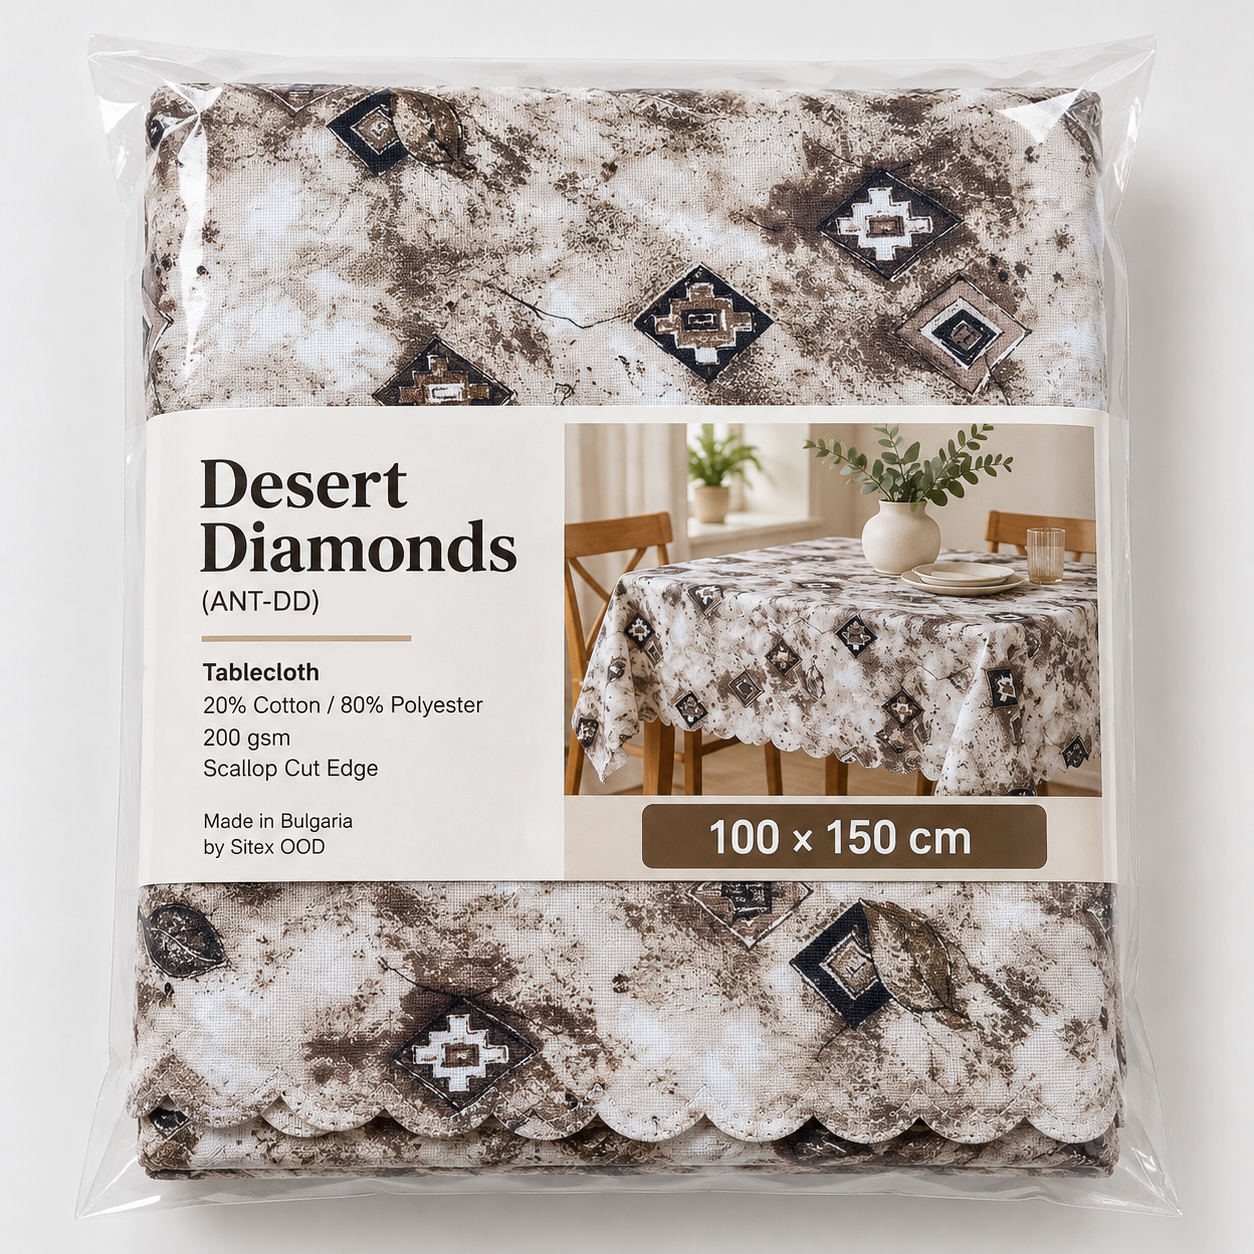
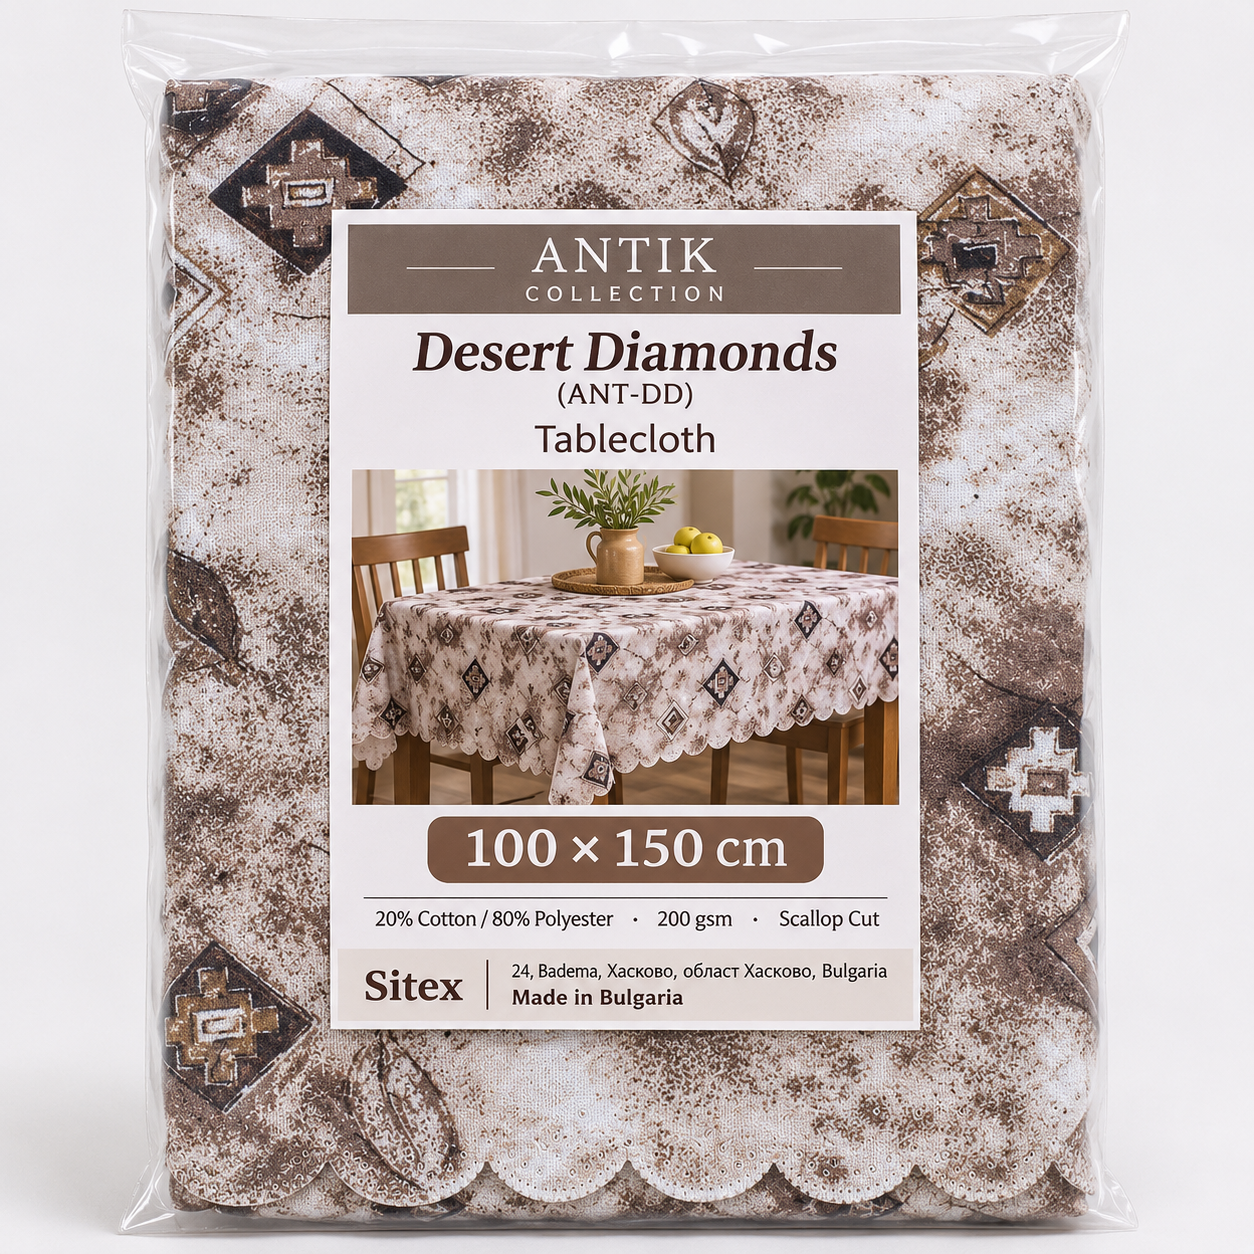
Update Temu compliance images and label recipe

diff --git a/PRODUCT_IMAGE_RECIPE.md b/PRODUCT_IMAGE_RECIPE.md
@@ -1,5 +1,5 @@
 # Product image recipes
-<!-- recipe-version: 15 -->
+<!-- recipe-version: 18 -->
 
 This is the editable master shot list. Sitex PIM reads each `shot-json` block directly. Recipes are captured when a run starts. Generation code lives in `sitex-pim`; this repository contains source photographs, accepted photographs and recipes. The existing `video/` project is outside this workflow.
 
@@ -9,7 +9,7 @@ Upload one full view and one closeup in the product's PIM Media page. Enter the 
 
 Choose Generate all, an image category or individual shots. PIM opens one ordinary Chat conversation per shot in the Eshop project, with Work off, the latest available model and High reasoning. Upload both originals at the start of each shot's conversation. Include the full product facts, photographed dimensions, source-image roles and that shot's recipe in every request. Treat the original photographs as the source of truth for the product; do not use earlier generated images as product references. Request one finished image at a time and wait for its original download before starting the next shot. Review the selected batch when it finishes. Retries, resume and regeneration continue in that shot's own conversation with the user's feedback. Each image links to its own chat; the batch link opens the latest chat. An older run's pending request keeps its saved conversation to prevent duplicate submissions; other shots without a dedicated chat start fresh with both originals. If ChatGPT explicitly reports that earlier originals are unavailable and requests them again, PIM reattaches the saved full view and closeup to the recovery request in that same conversation. One automatic source refresh is allowed per image retry budget; a repeated missing-source error pauses for review.
 
-All shots, including closeups, complete information cards and compliance images with English label text, are generated through ChatGPT. Card wording, typography and layout can vary creatively while retaining the information and visual purpose specified here. Product claims must agree with the supplied PIM facts. For care cards without label instructions, present conservative material-specific advice as general guidance rather than manufacturer-confirmed instructions. Compliance labels contain only supplied product facts; do not invent care symbols, manufacturer addresses, certifications or barcodes, or copy another pattern's label data.
+ChatGPT generates the listing images and can draft compliance layouts. Use actual product photos for Temu compliance submissions, as specified below. Card wording, typography and layout can vary creatively while retaining the information and visual purpose specified here. Product claims must agree with the supplied PIM facts. For care cards without label instructions, present conservative material-specific advice as general guidance rather than manufacturer-confirmed instructions. Compliance labels contain only verified product facts; do not invent care symbols, manufacturer addresses, certifications or barcodes, or copy another pattern's label data.
 
 The originals establish the actual product: preserve its print, colour relationships, motif proportions, textile character and edge construction. Source dimensions establish pattern scale. Use natural regular dining tables and believable drape. Do not specify a numeric drop or prescribe table dimensions. Do not turn printed patchwork into sewn panels.
 
@@ -534,6 +534,12 @@ Keep all drafts, downloads, attempt history, measurements and run metadata outsi
 
 ## Compliance images
 
+For Sitex products made in Bulgaria, every Temu compliance shot must show the manufacturer name `Sitex`, the full address `24, Badema, Хасково, област Хасково, Bulgaria`, and the origin statement `Made in Bulgaria` on the label. Match the Temu submission exactly, including the Cyrillic spelling and commas in the address. Check the actual label against the submission before upload. If the manufacturer, address or origin differs, or any text is missing or illegible, flag the mismatch and withhold the photo.
+
+Use photos of the actual product or retail packaging with the printed label firmly attached. Generated layouts are reference drafts only. If the physical label lacks the matching details, correct the printed label and rephotograph it before submitting.
+
+For Temu, each final compliance PNG (shared packaging, label close-up and every variant package) must be strictly under 3 MB (fewer than 3,000,000 bytes). Check the actual exported file size before accepting or uploading it. If it reaches the limit, optimize the PNG losslessly first, then reduce its dimensions only as needed. Keep it opaque and square, at least 1024 pixels per side, with all label text legible. If the export still fails any of these checks, flag it for review and withhold it from upload.
+
 Follow the established Country Check, Mocha Mosaic, Terracotta Garden and Coffee Lecce compositions below while preserving this product's actual fabric and verified facts. Keep label design consistent across the shared package and variant packages. Text belongs on the photographed label, with no floating captions or infographic layout. Shared images omit variant-specific sizes, SKUs and EANs. A dimension image shared by rectangle and oval omits shape-specific text and any barcode that differs between those SKUs. Never reuse the reference images' barcode or address.
 
 PIM expands the `compliance__variant` template into one shot for each distinct active key; the template itself is never saved as a file. Exact size and shape information is supplied with each expanded shot. Multiple active round or square sizes share their established key, so show all applicable sizes without selecting an arbitrary SKU. Existing runs can add missing recipe images in PIM while keeping their originals, saved conversations and previous attempts. Newly added shots each start their own conversation with both originals.
@@ -552,12 +558,17 @@ PIM expands the `compliance__variant` template into one shot for each distinct a
   "composition": "Front-facing studio product photograph of one neatly folded tablecloth in a clear retail bag, complete package within the frame, neutral background and soft shadow. Show the actual print through the bag. A centered white paper label carries the product name and code, a small faithful in-use product photograph, verified composition, manufacturer and origin in legible English. Keep the label design consistent with the variant package images.",
   "requiredContent": [
     "Entire clear package and actual fabric visible",
-    "Product name, product code and supplied composition, manufacturer and origin",
-    "Shared product label without a variant-specific size, SKU or EAN"
+    "Product name, product code and supplied composition",
+    "The manufacturer field must read exactly Sitex, the display name in the Temu submission, even if the supplied PIM manufacturer is Sitex OOD",
+    "Print the address verbatim on the label: 24, Badema, Хасково, област Хасково, Bulgaria",
+    "Print the origin statement exactly as Made in Bulgaria",
+    "Shared product label without a variant-specific size, SKU or EAN",
+    "Final PNG file strictly under 3 MB (fewer than 3,000,000 bytes)"
   ],
   "reject": [
     "Wrong pattern, colors or edge",
     "Cropped bag, unreadable label or floating infographic text",
+    "Missing, mismatched or digitally added manufacturer details or origin",
     "Invented address, care instructions, certification, barcode or EAN",
     "Copied reference-product identity or label data"
   ]
@@ -575,15 +586,20 @@ PIM expands the `compliance__variant` template into one shot for each distinct a
     "rosa/country-check/ROS-CC__compliance__label.png",
     "pastel/01-coffee-lecce/PAS-CL__compliance__label.png"
   ],
-  "composition": "Tight sharply focused product photograph of a white textile label resting against the actual cloth near its finished edge. Keep enough surrounding print and texture to identify the product. The label clearly shows the exact product code, supplied country of origin, manufacturer and composition in legible English, with clean black typography and realistic textile detail.",
+  "composition": "Tight sharply focused product photograph of the label firmly attached to the actual cloth or retail packaging. Keep enough surrounding print and texture to identify the product. Make the exact product code, composition, manufacturer name, address and country of origin sharply readable.",
   "requiredContent": [
-    "Exact product code and supplied origin, manufacturer and composition",
+    "Exact product code and supplied composition",
+    "The manufacturer field must read exactly Sitex, the display name in the Temu submission, even if the supplied PIM manufacturer is Sitex OOD",
+    "Print the address verbatim on the label: 24, Badema, Хасково, област Хасково, Bulgaria",
+    "Print the origin statement exactly as Made in Bulgaria",
     "Actual fabric, motif and edge visible around the label",
-    "All label text sharply readable"
+    "All label text sharply readable",
+    "Final PNG file strictly under 3 MB (fewer than 3,000,000 bytes)"
   ],
   "reject": [
     "Wrong fabric or invented edge construction",
     "Invented address, care symbols, certification, barcode or EAN",
+    "Missing, mismatched, unreadable or digitally added manufacturer details or origin",
     "Reference-product text, spelling errors or unreadable lettering"
   ]
 }
@@ -606,12 +622,17 @@ PIM expands the `compliance__variant` template into one shot for each distinct a
   "requiredContent": [
     "Exact target size in centimetres; round sizes use diameter notation",
     "Correct product name and code, actual print and consistent package-label design",
-    "Only supplied product facts and target variants"
+    "The manufacturer field must read exactly Sitex, the display name in the Temu submission, even if the supplied PIM manufacturer is Sitex OOD",
+    "Print the address verbatim on the label: 24, Badema, Хасково, област Хасково, Bulgaria",
+    "Print the origin statement exactly as Made in Bulgaria",
+    "Only supplied product facts and target variants",
+    "Final PNG file strictly under 3 MB (fewer than 3,000,000 bytes)"
   ],
   "reject": [
     "Wrong or inactive size or shape",
     "Arbitrary SKU or barcode on an image shared by different variants",
     "Invented address, care symbols, certification, barcode or EAN",
+    "Missing, mismatched, unreadable or digitally added manufacturer details or origin",
     "Different print, unreadable label or cropped package"
   ]
 }
